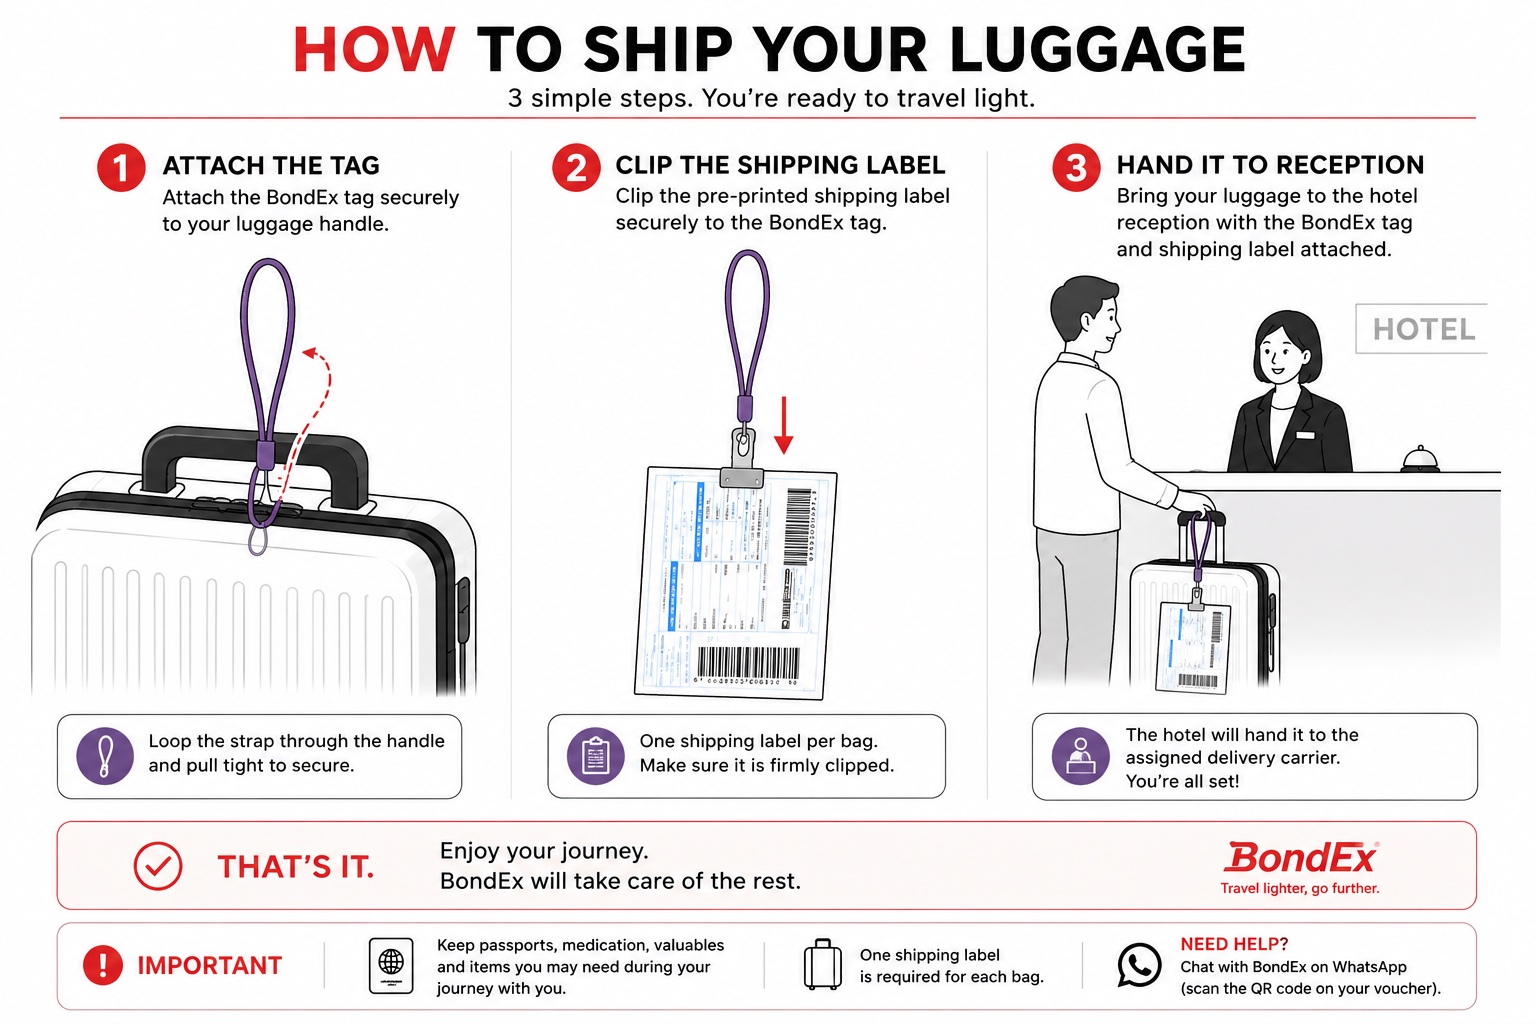
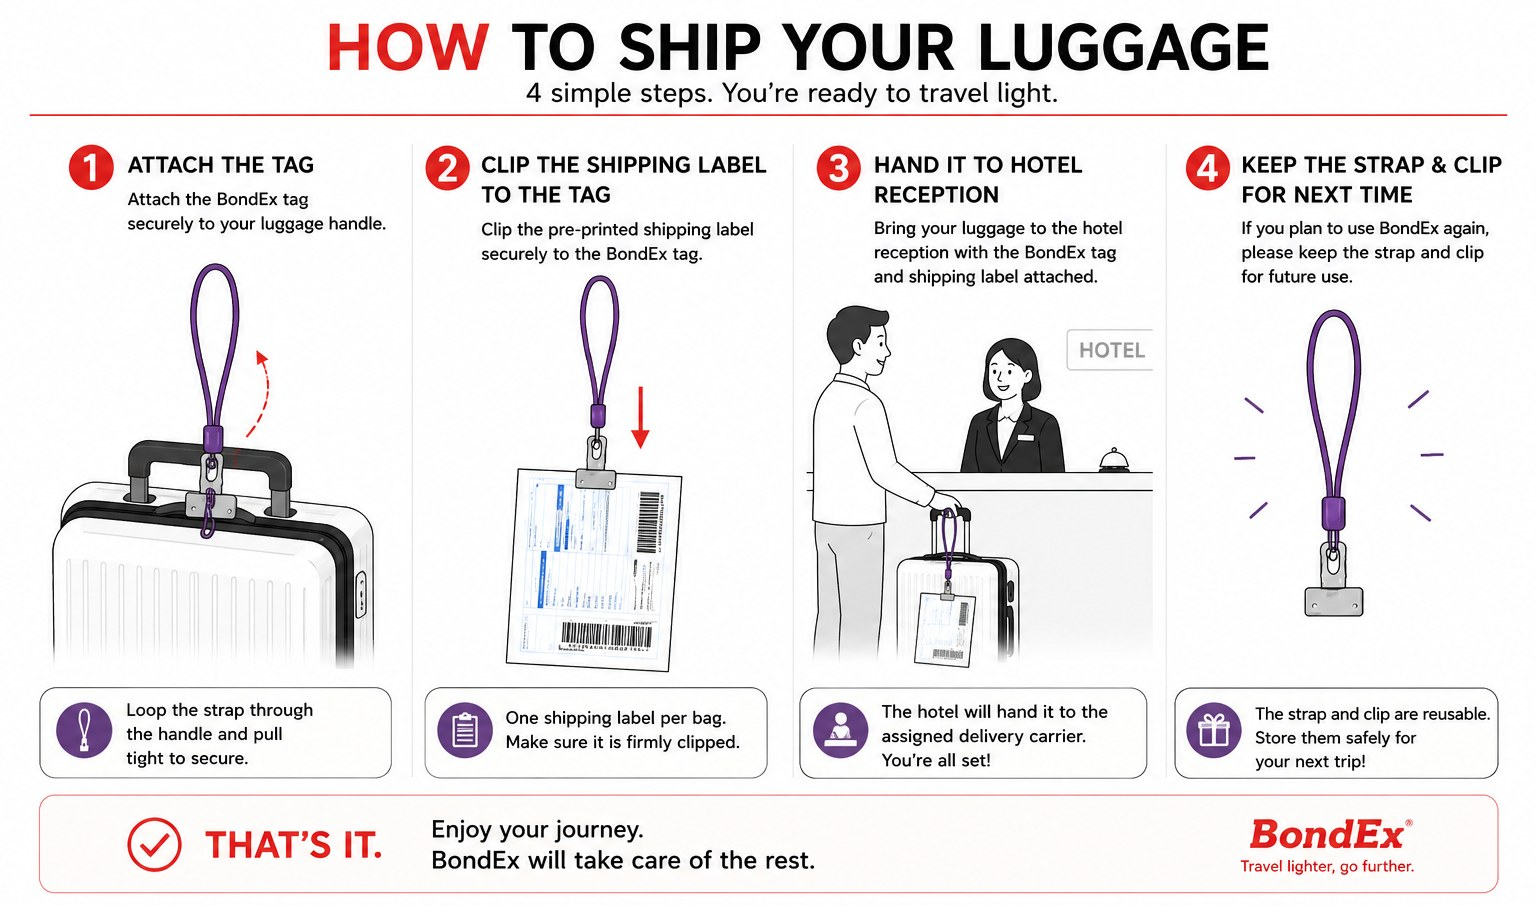
voucher: How to Ship を2ページ構成の Quick Start Guide に再設計
- 1枚目=4ステップイラストのみ (THAT'S IT で完結・IMPORTANT帯は画像側で切除)
- 2枚目=Before You Drop Off Your Luggage (6カードのリファレンス・赤ラインアイコン統一)
- 使用色は BondEx Red/Black/White/Gray のみ

Changed region(s): [[0.0312, 0.0, 0.9688, 0.989]]

diff --git a/lib/voucher-pdf.tsx b/lib/voucher-pdf.tsx
@@ -35,8 +35,8 @@ export { normalizeGuestLanguage } from "./guest-language"
 
 const FONT_DIR = path.join(process.cwd(), "public", "fonts")
 const LOGO_PATH = path.join(process.cwd(), "public", "bondex-logo.png")
-// How to Ship の3ステップイラスト (2026-08-27 谷口さん支給・1536×1024)。
-// ページはこのイラストが主役 —「5秒見ればやることが分かる」ガイド。
+// How to Ship の4ステップイラスト (2026-08-27 谷口さん支給・1536×1024)。
+// ページはこのイラストが主役 —「10秒見ればやることが分かる」ガイド。
 const HOWTO_STEPS_PATH = path.join(process.cwd(), "public", "howto-steps.jpg")
 
 const BONDEX_SUPPORT_EMAIL = "support@bondex.express"
@@ -1904,13 +1904,102 @@ function HowToShipPageLegacy({
   )
 }
 
-/**
- * How to Ship ページ (2026-08-27 リニューアル・谷口さん指示)。
- * 「説明書」ではなく「見れば理解できるガイド」— 支給の3ステップイラストを主役に、
- * 余白を広く取った航空会社の安全案内風レイアウト。文章要素はイラスト内で完結
- * (タイトル/3ステップ/THAT'S IT/IMPORTANT/WhatsApp案内)。
- * 追跡QR・ラベル説明・GOOD TO KNOW 等の旧要素は削除 (バウチャー本面に集約済み)。
- */
+// ---- How to Ship「Quick Start Guide」(2026-08-27 リニューアル第3版・谷口さん仕様) ----
+// 目的は説明ではなく旅行者の不安の除去 —「簡単そう」「ホテルで迷わない」「困ったらすぐ連絡できる」。
+// 1枚目 = 支給4ステップイラストのみ (THAT'S IT で完結・IMPORTANT帯は画像側で切除済み)、
+// 2枚目 = Before You Drop Off Your Luggage (6カードの簡潔なリファレンス)。
+// カラーは BondEx Red / Black / White / Gray のみ。見出し=最太ウェイト・本文=Regular。
+
+const hq = StyleSheet.create({
+  masthead: { flexDirection: "row", justifyContent: "space-between", alignItems: "flex-end" },
+  mastheadTag: { fontSize: 7, letterSpacing: 2.2, color: MUTED },
+  hero: { flexGrow: 1, justifyContent: "center", alignItems: "center" },
+  // 切除後の実寸比 1536×906 ≒ 182×107.4mm
+  heroImg: { width: mm(182), height: mm(107.4) },
+  overline: { width: mm(9), height: 2.2, backgroundColor: RED, borderRadius: 1.1, marginBottom: mm(2.2) },
+  refTitle: { fontSize: 15, fontWeight: 700, letterSpacing: 1.3, color: INK },
+  refGridWrap: { flexGrow: 1, justifyContent: "center", gap: mm(4) },
+  grid: { flexDirection: "row", gap: mm(4) },
+  card: {
+    flex: 1,
+    borderWidth: 1,
+    borderColor: "#e7e7ea",
+    borderRadius: 10,
+    backgroundColor: "#ffffff",
+    padding: mm(5),
+    minHeight: mm(40),
+  },
+  cardHead: { flexDirection: "row", alignItems: "center", gap: mm(2.4), marginBottom: mm(2.4) },
+  cardTitle: { flex: 1, fontSize: 9.2, fontWeight: 700, letterSpacing: 0.6, color: INK },
+  cardBody: { fontSize: 8.2, lineHeight: 1.6, color: INK_SOFT },
+  bulletRow: { flexDirection: "row", gap: 4 },
+})
+
+// ラインアイコン (統一テイスト: RED 単色ストローク・角丸線端・viewBox 24)
+const HQ_ICON = { stroke: RED, strokeWidth: 1.6, fill: "none" as const, strokeLinecap: "round" as const, strokeLinejoin: "round" as const }
+function HqIcon({ children }: { children: React.ReactNode }) {
+  return (
+    <Svg width={mm(6.6)} height={mm(6.6)} viewBox="0 0 24 24">
+      {children}
+    </Svg>
+  )
+}
+const HqTagIcon = () => (
+  <HqIcon>
+    <Path d="M12.6 3.2h5.6a2 2 0 0 1 2 2v5.6a2 2 0 0 1-.6 1.4l-8 8a2 2 0 0 1-2.8 0l-5-5a2 2 0 0 1 0-2.8l8-8a2 2 0 0 1 1.4-.6z" {...HQ_ICON} />
+    <Circle cx={15.8} cy={8.2} r={1.7} {...HQ_ICON} />
+  </HqIcon>
+)
+const HqReuseIcon = () => (
+  <HqIcon>
+    <Path d="M20 12a8 8 0 1 1-2.4-5.7" {...HQ_ICON} />
+    <Path d="M20.2 3.4v4.4h-4.4" {...HQ_ICON} />
+  </HqIcon>
+)
+const HqPlusIcon = () => (
+  <HqIcon>
+    <Circle cx={12} cy={12} r={8.6} {...HQ_ICON} />
+    <Path d="M12 8.2v7.6M8.2 12h7.6" {...HQ_ICON} />
+  </HqIcon>
+)
+const HqTrackIcon = () => (
+  <HqIcon>
+    <Path d="M12 21.2s-7-6.1-7-11a7 7 0 0 1 14 0c0 4.9-7 11-7 11z" {...HQ_ICON} />
+    <Circle cx={12} cy={10} r={2.6} {...HQ_ICON} />
+  </HqIcon>
+)
+const HqPassportIcon = () => (
+  <HqIcon>
+    <Path d="M6 3.4h12a1.4 1.4 0 0 1 1.4 1.4v14.4a1.4 1.4 0 0 1-1.4 1.4H6a1.4 1.4 0 0 1-1.4-1.4V4.8A1.4 1.4 0 0 1 6 3.4z" {...HQ_ICON} />
+    <Circle cx={12} cy={9.6} r={3} {...HQ_ICON} />
+    <Path d="M8.6 16.6h6.8" {...HQ_ICON} />
+  </HqIcon>
+)
+const HqChatIcon = () => (
+  <HqIcon>
+    <Path d="M20 4.4H4a1 1 0 0 0-1 1V20l4.2-3.8H20a1 1 0 0 0 1-1V5.4a1 1 0 0 0-1-1z" {...HQ_ICON} />
+    <Path d="M7.6 10.4h8.8" {...HQ_ICON} />
+  </HqIcon>
+)
+
+function HqCard({ icon, title, children }: { icon: React.ReactNode; title: string; children: React.ReactNode }) {
+  return (
+    <View style={hq.card}>
+      <View style={hq.cardHead}>
+        {icon}
+        <Text style={hq.cardTitle}>{title}</Text>
+      </View>
+      {children}
+    </View>
+  )
+}
+const HqBullet = ({ t }: { t: string }) => (
+  <View style={hq.bulletRow}>
+    <Text style={[hq.cardBody, { color: RED }]}>•</Text>
+    <Text style={hq.cardBody}>{t}</Text>
+  </View>
+)
+
 export function HowToShipPage({
   language,
 }: {
@@ -1919,24 +2008,79 @@ export function HowToShipPage({
   supportQrKind?: "whatsapp" | "email"
 }) {
   return (
-    <Page size="A4" style={ht.page} wrap={false}>
-      {/* masthead — ブランド一貫の小ロゴのみ。本文はイラストが全て語る */}
-      <View style={{ flexDirection: "row", justifyContent: "space-between", alignItems: "flex-end" }}>
-        <Image style={logoSize(9)} src={LOGO_PATH} />
-        <Text style={{ fontSize: 7, letterSpacing: 1.4, color: MUTED }}>GUEST GUIDE</Text>
-      </View>
+    <>
+      {/* 1枚目: How to Ship — 4ステップイラストのみで完結する Quick Start Guide */}
+      <Page size="A4" style={ht.page} wrap={false}>
+        <View style={hq.masthead}>
+          <Image style={logoSize(9)} src={LOGO_PATH} />
+          <Text style={hq.mastheadTag}>QUICK START GUIDE</Text>
+        </View>
 
-      {/* 3ステップイラスト — 全幅・上下中央 (1536×1024 = 3:2 を実寸比で配置) */}
-      <View style={{ flex: 1, justifyContent: "center", alignItems: "center" }}>
-        {/* eslint-disable-next-line jsx-a11y/alt-text */}
-        <Image src={HOWTO_STEPS_PATH} style={{ width: mm(182), height: mm(121.3) }} />
-      </View>
+        <View style={hq.hero}>
+          {/* eslint-disable-next-line jsx-a11y/alt-text */}
+          <Image src={HOWTO_STEPS_PATH} style={hq.heroImg} />
+        </View>
 
-      <View style={ht.htFooter}>
-        <Text style={ht.htFooterText}>{jb("株式会社JOJO ／ BondEx — bondex.express")}</Text>
-        <Text style={ht.htFooterText}>HOW TO SHIP ・ {language.toUpperCase()}</Text>
-      </View>
-    </Page>
+        <View style={ht.htFooter}>
+          <Text style={ht.htFooterText}>{jb("株式会社JOJO ／ BondEx — bondex.express")}</Text>
+          <Text style={ht.htFooterText}>HOW TO SHIP ・ {language.toUpperCase()}</Text>
+        </View>
+      </Page>
+
+      {/* 2枚目: Before You Drop Off Your Luggage — 6カードの簡潔なリファレンス */}
+      <Page size="A4" style={ht.page} wrap={false}>
+        <View style={hq.masthead}>
+          <Image style={logoSize(9)} src={LOGO_PATH} />
+          <Text style={hq.mastheadTag}>TRAVELER REFERENCE</Text>
+        </View>
+
+        <View style={{ marginTop: mm(10) }}>
+          <View style={hq.overline} />
+          <Text style={hq.refTitle}>BEFORE YOU DROP OFF YOUR LUGGAGE</Text>
+        </View>
+
+        <View style={hq.refGridWrap}>
+          <View style={hq.grid}>
+            <HqCard icon={<HqTagIcon />} title="ONE LABEL PER BAG">
+              <Text style={hq.cardBody}>Attach one shipping label to each piece of luggage.</Text>
+            </HqCard>
+            <HqCard icon={<HqReuseIcon />} title="USING BONDEX AGAIN?">
+              <Text style={hq.cardBody}>
+                Keep your BondEx strap until the end of your journey. If you have another BondEx shipment, you’ll use
+                the same strap again.
+              </Text>
+            </HqCard>
+          </View>
+          <View style={hq.grid}>
+            <HqCard icon={<HqPlusIcon />} title="NEED TO ADD ANOTHER BAG?">
+              <Text style={hq.cardBody}>Please contact BondEx via WhatsApp before shipment.</Text>
+            </HqCard>
+            <HqCard icon={<HqTrackIcon />} title="TRACK YOUR LUGGAGE">
+              <Text style={hq.cardBody}>Scan the QR code on your voucher to check your delivery status.</Text>
+            </HqCard>
+          </View>
+          <View style={hq.grid}>
+            <HqCard icon={<HqPassportIcon />} title="KEEP THESE WITH YOU">
+              <Text style={hq.cardBody}>Do not pack:</Text>
+              <View style={{ height: mm(1) }} />
+              <HqBullet t="Passport" />
+              <HqBullet t="Cash" />
+              <HqBullet t="Medication" />
+              <HqBullet t="Valuables" />
+              <HqBullet t="Electronics" />
+            </HqCard>
+            <HqCard icon={<HqChatIcon />} title="NEED HELP?">
+              <Text style={hq.cardBody}>Contact BondEx anytime via WhatsApp.</Text>
+            </HqCard>
+          </View>
+        </View>
+
+        <View style={ht.htFooter}>
+          <Text style={ht.htFooterText}>{jb("株式会社JOJO ／ BondEx — bondex.express")}</Text>
+          <Text style={ht.htFooterText}>BEFORE YOU DROP OFF ・ {language.toUpperCase()}</Text>
+        </View>
+      </Page>
+    </>
   )
 }
 
